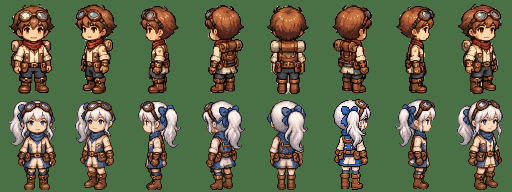
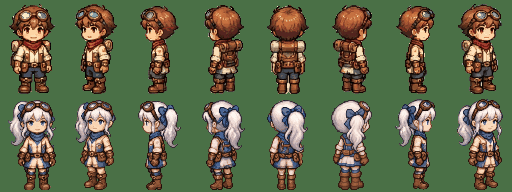
art: restyle female NE direction sprite to match the set

Changed region(s): [[0.625, 0.5, 0.75, 1.0]]

diff --git a/assets/concepts/trainer-gate02/PROVENANCE.md b/assets/concepts/trainer-gate02/PROVENANCE.md
@@ -9,22 +9,22 @@ Scale/reference geometry: `draft-extract/trainer_f_{s,sw,w,nw,n,ne,e,se}_64x96.p
 The eight final female files are **whole regenerated sprites**, not patches. No pixels from the rejected composite female files were retained, and no hair, bow, body, limb, clothing, or accessory region was pasted onto an older sprite.
 
 - S, SW, W, NW, N, E, and SE use the complete coherent figures from `build/codex-g02/generated-reference/trainer_f_*_generated_64x96.png`.
-- NE was regenerated as one complete figure with OpenAI's built-in image-generation tool because the coherent-set NE put the ponytail on the wrong side. The accepted full-resolution source is preserved at `build/codex-g02/generated-reference/trainer_f_ne_whole_regenerated_source.png`.
+- NE was regenerated as one complete figure with OpenAI's built-in image-generation tool because the coherent-set NE put the ponytail on the wrong side. A later style-match review rejected the first corrected-side NE as too sharp, narrow, saturated, and thin compared with NW/N. The final accepted full-resolution source is `build/codex-g02/generated-reference/trainer_f_ne_round5_whole_source.png`.
 - The eight male files were not modified in this whole-female replacement pass. SHA-256 comparison before and after the write reported `MALE-HASH-PASS 8/8 unchanged`.
+- The final NE-only replacement also hash-checked every other sprite: `UNCHANGED-HASH-PASS 15/15 non-NE sprites unchanged`.
 
 ## Image-generation prompt for accepted NE source
 
 > Use case: precise-object-edit  
-> Asset type: standalone Aevoria female trainer NE direction sprite source  
-> Input images: the approved design board and coherent 8-direction set are style/identity references; the standalone NE images are failed targets. Regenerate the entire figure from scratch as one coherent sprite.  
-> Primary request: Create the NE direction (3/4 BACK) female trainer, turned away from the viewer and facing screen-right. Show mostly the back of her head and back/right side of her torso, with only a narrow right cheek/profile. Match the NE pose in the coherent 8-direction reference.  
-> Critical hair geometry: her one blue bow and one silver-white ponytail must attach on SCREEN-RIGHT. The long ponytail must form the outermost screen-right silhouette and trail down the right side behind her shoulder. The screen-left silhouette must contain only the rounded back-head hair--NO ponytail, NO bow, NO hanging hair tail on screen-left.  
-> Design: exactly one continuous silver-white hair mass, exactly one blue bow, exactly one ponytail; brown goggles on head; blue scarf; cream jacket with blue accents; brown gloves, belt and pouches; dark socks; brown boots.  
-> Style: crisp pixel art matching the coherent set, same chibi scale/proportions and selective outlines.  
-> Composition: one complete full-body figure only, upright and centred, generous transparent margin, feet visible, no crop.  
-> Constraints: truly transparent background with zero scenery, glow, shadow, gradient, black fill, or halo. No doubled/overlapping body pieces, no extra limbs/accessories/hair fragments. Do not mirror an existing whole sprite. No blur, antialiasing, text, or watermark.
+> Asset type: one standalone 64x96-style Aevoria female trainer direction sprite  
+> Input images: Image 1 is the approved female NW sprite and Image 2 is the approved female N sprite; they are the STRICT style, palette, scale, anatomy, outline, and pixel-density references. Image 3 is the rejected NE sprite and is only a pose-placement warning--do not copy its narrow head, thin body, sharp black outline, saturated blue, or small boots.  
+> Primary request: Regenerate the ENTIRE NE sprite as one new coherent whole figure. It is a 3/4-back view facing up-right/screen-right: show the broad back of the head, the back/right side of the torso, and only a little cheek and ear at screen-right. A brown goggles strap and part of the goggles are visible.  
+> Style match: make it look drawn by exactly the same artist as Images 1 and 2. Use their large rounded head and generous silver-white hair volume, their broad torso, chunky legs and boots, muted blue, cream and brown palette, soft gray-brown selective outlines, softened downsampled pixel clusters, and identical chibi proportions. Avoid crisp high-resolution rendering, hard black edging, thin limbs, tiny head, saturated blue, or extra detail.  
+> Hair geometry: exactly one continuous hair mass, one blue bow, and one ponytail. The ponytail and bow are on HER RIGHT, therefore attached on SCREEN-RIGHT in this NE view. The ponytail hangs behind the screen-right side of the head/shoulder. No ponytail or bow on screen-left.  
+> Composition: full body, upright, centred, transparent canvas, same apparent height and centre as Images 1 and 2, feet fully visible with margin.  
+> Constraints: one whole sprite only; no mirroring; no regional patching; no doubled hair, limbs, clothing or accessories; no stray fragments; no shadow, glow, halo, scenery, text or watermark; genuinely transparent background.
 
-An earlier NE generation attempt was rejected and is not used because it remained side/front-facing and placed the tail on screen-left.
+Earlier NE generation attempts are not used. One remained side/front-facing with the tail on screen-left; the next corrected the direction but did not match the softer NW/N proportions and rendering.
 
 ## Whole-sprite processing
 
@@ -32,9 +32,9 @@ Python 3 and Pillow performed only whole-figure processing:
 
 1. Hardened alpha to 0 or 255 and discarded the transparent generation glow/halo.
 2. Cropped each complete generated figure as a single unit.
-3. For NE only, reduced the complete full-resolution figure to 91 px tall with nearest-neighbour sampling; no part was processed separately.
+3. For final NE only, reduced the complete full-resolution figure to 41x90 px with nearest-neighbour sampling; no part was processed separately. This exactly matches N's occupied width and NW/N's 90 px height.
 4. Placed each complete figure, as one unit, on a transparent 64x96 canvas, horizontally centred with the last opaque foot row at y=93 (two transparent rows below).
-5. Globally reduced each complete sprite to at most 48 opaque colours with dithering disabled.
+5. Globally mapped final NE to a shared 48-colour palette derived from the approved NW and N sprites, with dithering disabled. The resulting NE uses 44 colours.
 6. Removed only disconnected 1-4 px generation fragments and four-neighbour-isolated pixels.
 
 No manual repainting, mirroring, regional compositing, or old-sprite patching was performed.
@@ -48,7 +48,7 @@ No manual repainting, mirroring, regional compositing, or old-sprite patching wa
 | `trainer_f_w_64x96.png` | `trainer_f_w_generated_64x96.png` | Complete generated W figure; same whole-sprite processing. Ponytail: behind the head. |
 | `trainer_f_nw_64x96.png` | `trainer_f_nw_generated_64x96.png` | Complete generated NW figure; same whole-sprite processing. Ponytail: screen-right. |
 | `trainer_f_n_64x96.png` | `trainer_f_n_generated_64x96.png` | Complete generated N figure; same whole-sprite processing. Ponytail: off-centre screen-right. |
-| `trainer_f_ne_64x96.png` | `trainer_f_ne_whole_regenerated_source.png` | **Entire NE figure regenerated**, then whole-figure nearest-neighbour reduction and the same global processing. Ponytail: screen-right. |
+| `trainer_f_ne_64x96.png` | `trainer_f_ne_round5_whole_source.png` | **Entire NE figure regenerated** to match NW/N, then reduced as one 41x90 px figure, centred at x=31.5, and globally mapped to the shared NW/N palette. Ponytail: screen-right. |
 | `trainer_f_e_64x96.png` | `trainer_f_e_generated_64x96.png` | Complete generated E figure; same whole-sprite processing. Ponytail: behind the head. |
 | `trainer_f_se_64x96.png` | `trainer_f_se_generated_64x96.png` | Complete generated SE figure; same whole-sprite processing. Ponytail: screen-left. |
 

diff --git a/docs/HANDOFF.md b/docs/HANDOFF.md
@@ -8,7 +8,7 @@ Active task: **ART-003-G01 — Trainer Character Master (GATE 01)**, docs/tasks/
 - Direction check (docs/tasks/ART-003-G02.md): male consistent in all 8 directions; **female side ponytail/bow flips** (S unclear, SW and NE mirrored, N centred). Owner decision: fix it in the GATE 02 sprites, not on the board. The tie stays on her right side in every direction; never mirror her hair, bow or straps.
 - Board is concept art, not 64x96 sprites. GATE 02 sprite set (16 PNG, 64x96) is still to be made by ChatGPT or an artist; Claude Code has no image generation. Animation is blocked until the GATE 02 sprites are owner-approved and GATE 03 separation is done.
 - Draft Direction Master exists: `assets/concepts/trainer-gate02/draft-extract/` — 16 sprites (64x96) extracted from the approved board by image processing (`extract_board.py`), 16/16 TECH-PASS, previews `preview_1x.png`/`preview_4x.png`. **Look and proportions approved by owner (D018).** Hand clean-up pending: female ponytail side wrong in S/SW/N/NE; some details softened.
-- Clean-up candidate: Codex (codex-cli run by Claude Code) wrote `assets/concepts/trainer-gate02/trainer_{m,f}_{dir}_64x96.png` + PROVENANCE.md; previews `preview_1x.png` / `preview_4x.png`. Male = cleaned draft. Female = round 4 whole-sprite regeneration, because the owner rejected the patched version for overlapping sprite pieces. 16/16 TECH-PASS. Claude review: ponytail on her right side in all 8, one hair mass each; female NE is in a different style from the other seven (fix pending). Codex has falsely reported "no defects" before, so always verify its claims visually.
+- Clean-up candidate: Codex (codex-cli run by Claude Code) wrote `assets/concepts/trainer-gate02/trainer_{m,f}_{dir}_64x96.png` + PROVENANCE.md; previews `preview_1x.png` / `preview_4x.png`. Male = cleaned draft. Female = round 4 whole-sprite regeneration, because the owner rejected the patched version for overlapping sprite pieces. 16/16 TECH-PASS. Claude review: ponytail on her right side in all 8, one hair mass each; female NE restyled in round 5 to match NW/N; no known defects. Codex hit its usage limit at the end of round 5 (resets 18:52 local time). Codex has falsely reported "no defects" before, so always verify its claims visually.
 - Next action: owner decides whether to accept the candidate (minor N/NE/SW polish later) or run another clean-up round. GATE 03 starts only after acceptance.
 
 ## Owner verdict this session (binding — D016, D017)

diff --git a/docs/CHANGELOG.md b/docs/CHANGELOG.md
@@ -1,4 +1,7 @@
 # AV-TWWE — Changelog
+## Checkpoint 010 — GATE 02 female whole-sprite set (2026-11-25)
+- Female sprites regenerated as whole figures (rounds 4–5), with no patch overlap, the ponytail on her right in all 8 directions and NE restyled to match. 16/16 TECH-PASS, pending owner approval.
+
 ## Checkpoint 009 — GATE 02 clean-up candidate (2026-11-25)
 - Codex clean-up of 16 direction sprites (ponytail side fixed, details sharpened), 16/16 TECH-PASS, pending owner review; known: female N/NE fragmented bow pixels, SW notch.
 
